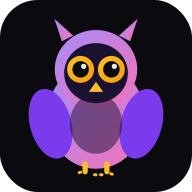
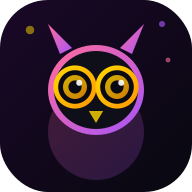
fix: ビルドエラー修正・アイコン差し替え
【ビルドエラー修正】
- shops.hiddenカラムが未存在によるビルドエラーを修正
- .neq('hidden',true)をJSフィルターに変更（カラム追加前も動く）
- Supabaseで後からhiddenカラムを追加すれば自動的に機能する

【アイコン差し替え】
- 既存のナイトビジョンロゴ（フクロウ）に変更
- apple-touch-icon・icon-192・icon-512を再生成

Supabaseで実行が必要:
ALTER TABLE shops ADD COLUMN IF NOT EXISTS hidden BOOLEAN DEFAULT FALSE;

diff --git a/lib/shops.ts b/lib/shops.ts
@@ -62,14 +62,15 @@ export async function getShops(): Promise<Shop[]> {
   const { data: shops, error } = await supabase
     .from("shops")
     .select("*, casts(*)")
-    .neq("hidden", true)  // 非表示を除外
     .order("plan", { ascending: false })
     .order("id");
   if (error) return [];
   if (!shops) return [];
+  // hidden=trueの店舗を除外（カラムが存在しない場合は全件表示）
+  const filtered = shops.filter((s: any) => !s.hidden);
 
   // 各店舗の承認済み写真を取得
-  const shopIds = shops.map((s) => s.id);
+  const shopIds = filtered.map((s: any) => s.id);
   const { data: photoRequests } = await supabase
     .from("photo_requests")
     .select("shop_id, url, sort_order")
@@ -77,7 +78,7 @@ export async function getShops(): Promise<Shop[]> {
     .eq("status", "approved")
     .order("sort_order");
 
-  return shops.map((shop) => {
+  return filtered.map((shop: any) => {
     const photos = (photoRequests ?? [])
       .filter((p) => p.shop_id === shop.id)
       .map((p) => p.url);
@@ -94,10 +95,9 @@ export async function getShopsByType(type: string): Promise<Shop[]> {
     .from("shops")
     .select("*, casts(*)")
     .eq("type", type)
-    .neq("hidden", true)
     .order("id");
   if (error) throw error;
-  return shops as Shop[];
+  return (shops as Shop[]).filter((s: any) => !s.hidden);
 }
 
 export async function getShopBySlug(slug: string): Promise<Shop | null> {
